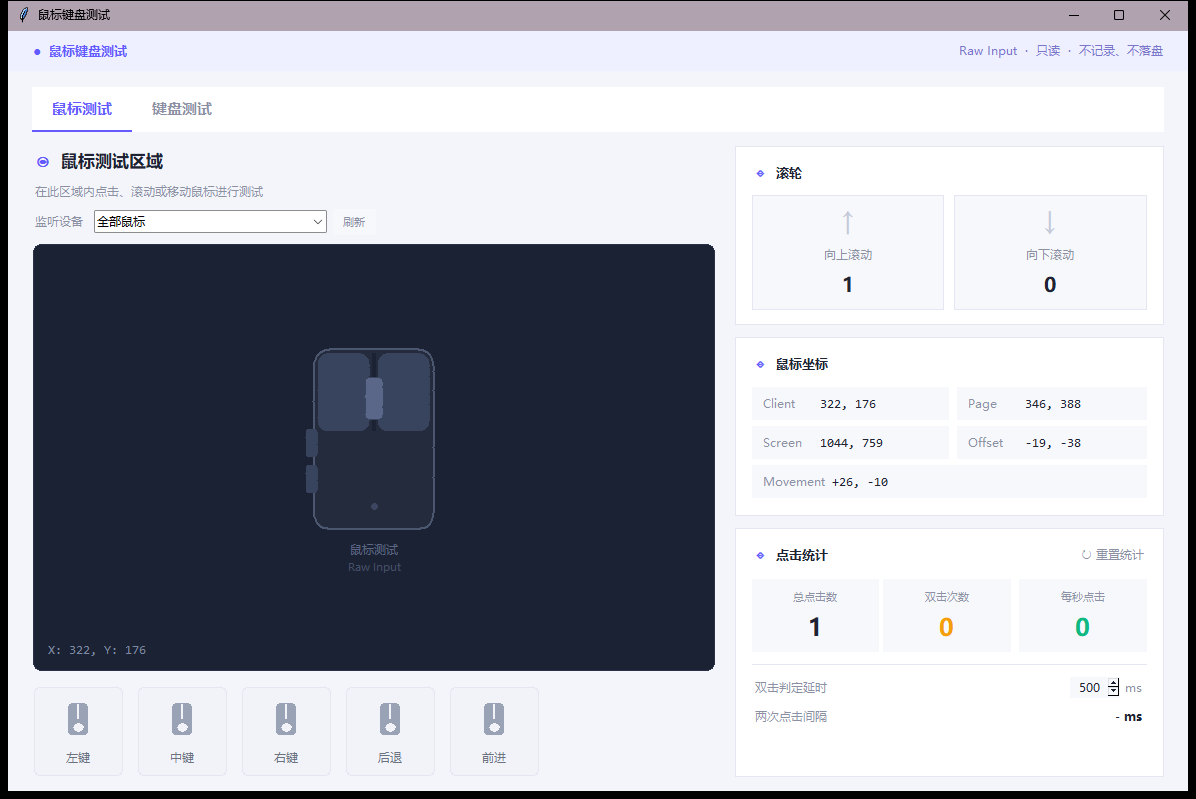
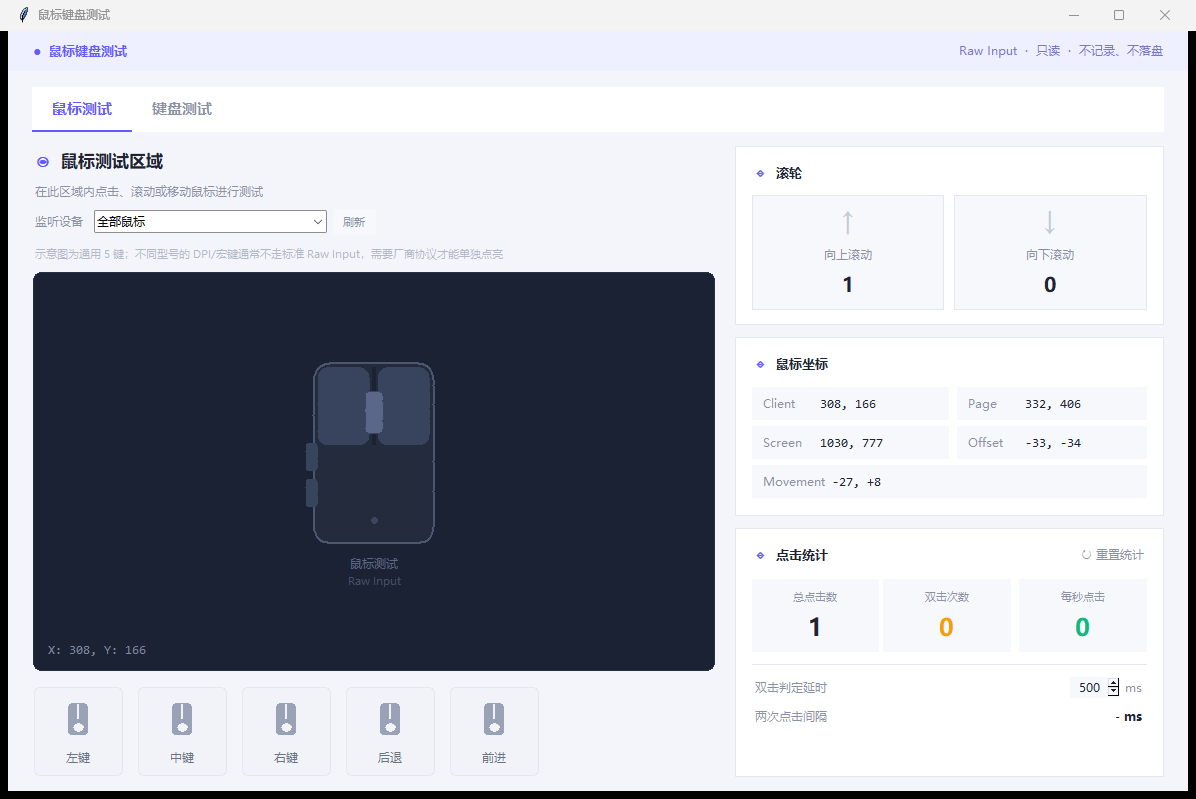
键盘测试改为104键全配列示意图，增加按键高亮/锁定/rollover/重置

diff --git a/mouse_test_gui.py b/mouse_test_gui.py
@@ -19,6 +19,7 @@ from collections import deque
 from tkinter import messagebox, ttk
 
 import mouse_events as me
+from keyboard_view import KeyboardView
 
 BG = "#f4f5fa"
 CARD = "#ffffff"
@@ -94,6 +95,9 @@ class MouseTestApp(tk.Tk):
         self.wheel_up = 0
         self.wheel_down = 0
         self.key_count = 0
+        self.max_rollover = 0
+        self.active_keys: set[int] = set()
+        self.locks: set[int] = set()
         self.last_move = (0, 0)
         self.last_screen = (0, 0)
         self.demo_step = 0
@@ -244,6 +248,10 @@ class MouseTestApp(tk.Tk):
         tk.Label(left, text="在此区域内点击、滚动或移动鼠标进行测试",
                  bg=BG, fg=MUTED, font=(UI, 9)).pack(anchor="w", pady=(4, 6))
         self._selector(left, "mouse")
+        tk.Label(left, text="示意图为通用 5 键；不同型号的 DPI/宏键通常不走标准 Raw Input，"
+                            "需要厂商协议才能单独点亮",
+                 bg=BG, fg=FAINT, font=(UI, 8), anchor="w",
+                 wraplength=700, justify="left").pack(fill="x", pady=(0, 6))
 
         self.pad = tk.Canvas(left, bg=BG, highlightthickness=0, height=360)
         self.pad.pack(fill="both", expand=True)
@@ -483,40 +491,57 @@ class MouseTestApp(tk.Tk):
         card.pack(fill="both", expand=True, padx=24, pady=14)
 
         head = tk.Frame(card, bg=CARD)
-        head.pack(fill="x", padx=24, pady=(20, 0))
+        head.pack(fill="x", padx=24, pady=(16, 0))
         tk.Label(head, text="⌨", bg=CARD, fg=ACCENT,
                  font=(UI, 14)).pack(side="left")
         tk.Label(head, text=" 键盘测试区域", bg=CARD, fg=TEXT,
                  font=(UI, 13, "bold")).pack(side="left")
+        tk.Label(head, text="全配列 104 键 · 按下亮起 · 松开熄灭",
+                 bg=CARD, fg=MUTED, font=(UI, 8)).pack(side="right")
         tk.Label(card, text="按键盘上的任意键进行测试（键值只显示，不记录、不落盘）",
                  bg=CARD, fg=MUTED, font=(UI, 9)).pack(anchor="w", padx=24, pady=(4, 0))
         self._selector(card, "keyboard")
 
         body = tk.Frame(card, bg=CARD)
-        body.pack(fill="both", expand=True, padx=24, pady=18)
+        body.pack(fill="both", expand=True, padx=24, pady=(8, 16))
         body.grid_columnconfigure(0, weight=3)
-        body.grid_columnconfigure(1, weight=2)
+        body.grid_columnconfigure(1, weight=1)
         body.grid_rowconfigure(0, weight=1)
 
         left = tk.Frame(body, bg=CHIP, highlightbackground=BORDER,
                         highlightthickness=1)
         left.grid(row=0, column=0, sticky="nsew", padx=(0, 12))
-        self.key_big = tk.Label(left, text="—", bg=CHIP, fg=TEXT,
-                                font=(UI, 44, "bold"))
-        self.key_big.pack(expand=True)
-        self.key_meta = tk.Label(left, text="等待按键…", bg=CHIP, fg=MUTED,
-                                 font=(MONO, 10))
-        self.key_meta.pack(pady=(0, 24))
+        self.kb_view = KeyboardView(left)
+        self.kb_view.pack(fill="both", expand=True, padx=8, pady=(8, 4))
+
+        status = tk.Frame(left, bg=CHIP)
+        status.pack(fill="x", padx=10, pady=(0, 8))
+        self.key_big = tk.Label(status, text="—", bg=CHIP, fg=TEXT,
+                                font=(UI, 15, "bold"), width=12, anchor="w")
+        self.key_big.pack(side="left")
+        self.key_meta = tk.Label(status, text="等待按键…", bg=CHIP, fg=MUTED,
+                                 font=(MONO, 9), anchor="w")
+        self.key_meta.pack(side="left", padx=(8, 0))
+        tk.Button(status, text="重置", command=self._reset_keyboard,
+                  bg=CARD, fg=MUTED, relief="flat", bd=0,
+                  font=(UI, 8), padx=8, pady=2,
+                  cursor="hand2").pack(side="right")
 
         right = tk.Frame(body, bg=CARD)
         right.grid(row=0, column=1, sticky="nsew")
         self.key_count_label = tk.Label(right, text="按键次数  0", bg=CARD,
                                         fg=TEXT, font=(UI, 11, "bold"))
         self.key_count_label.pack(anchor="w")
+        self.rollover_label = tk.Label(right, text="同时按下  0  ·  最大 0",
+                                       bg=CARD, fg=MUTED, font=(UI, 9))
+        self.rollover_label.pack(anchor="w", pady=(4, 0))
+        self.lock_label = tk.Label(right, text="Caps —   Num —   Scroll —",
+                                   bg=CARD, fg=MUTED, font=(UI, 9))
+        self.lock_label.pack(anchor="w", pady=(2, 8))
         tk.Label(right, text="最近按键", bg=CARD, fg=MUTED,
-                 font=(UI, 9)).pack(anchor="w", pady=(14, 4))
+                 font=(UI, 9)).pack(anchor="w", pady=(4, 4))
         self.key_list = tk.Listbox(
-            right, font=(MONO, 10), relief="flat", bg=CHIP, fg=TEXT,
+            right, font=(MONO, 9), relief="flat", bg=CHIP, fg=TEXT,
             selectbackground=CHIP, selectforeground=TEXT,
             highlightthickness=1, highlightbackground=BORDER, height=12)
         self.key_list.pack(fill="both", expand=True)
@@ -714,17 +739,55 @@ class MouseTestApp(tk.Tk):
 
     # ------------------------------------------------------------- keyboard
     def _on_key(self, ev):
-        if ev.get("action") != "down":
-            return
-        self.key_count += 1
+        vk = int(ev.get("vk", 0) or 0)
         name = ev.get("name", "?")
-        self.key_big.configure(text=name)
-        self.key_meta.configure(
-            text=f"VK 0x{ev.get('vk', 0):02X}   scan 0x{ev.get('scan', 0):02X}")
+        down = ev.get("action") == "down"
+        if down:
+            self.kb_view.set_key(vk, True)
+            if vk not in self.active_keys:
+                self.active_keys.add(vk)
+                self.key_count += 1
+                self.max_rollover = max(self.max_rollover,
+                                        len(self.active_keys))
+                self.key_list.insert(
+                    0, f"{name:<12} VK 0x{vk:02X}")
+                if self.key_list.size() > 12:
+                    self.key_list.delete(12, tk.END)
+                if vk in (0x14, 0x90, 0x91):      # Caps / Num / Scroll
+                    if vk in self.locks:
+                        self.locks.discard(vk)
+                    else:
+                        self.locks.add(vk)
+                    self.kb_view.set_lock(vk, vk in self.locks)
+            self.key_big.configure(text=name)
+            self.key_meta.configure(
+                text=f"VK 0x{vk:02X}   scan 0x{ev.get('scan', 0):02X}")
+        else:
+            self.active_keys.discard(vk)
+            self.kb_view.set_key(vk, False)
+        self._update_keyboard_stats()
+
+    def _update_keyboard_stats(self):
         self.key_count_label.configure(text=f"按键次数  {self.key_count}")
-        self.key_list.insert(0, f"{name:<12} VK 0x{ev.get('vk', 0):02X}")
-        if self.key_list.size() > 12:
-            self.key_list.delete(12, tk.END)
+        self.rollover_label.configure(
+            text=f"同时按下  {len(self.active_keys)}  ·  "
+                 f"最大 {self.max_rollover}")
+        names = {"Caps": 0x14, "Num": 0x90, "Scroll": 0x91}
+        self.lock_label.configure(
+            text="   ".join(
+                f"{label} {'ON' if vk in self.locks else '—'}"
+                for label, vk in names.items()))
+
+    def _reset_keyboard(self):
+        self.active_keys.clear()
+        self.locks.clear()
+        self.key_count = 0
+        self.max_rollover = 0
+        self.kb_view.reset()
+        self.key_big.configure(text="—")
+        self.key_meta.configure(text="等待按键…")
+        self.key_list.delete(0, tk.END)
+        self._update_keyboard_stats()
 
     # ----------------------------------------------------------------- demo
     def _demo_tick(self):

diff --git a/keyboard_view.py b/keyboard_view.py
@@ -1,0 +1,167 @@
+# -*- coding: utf-8 -*-
+"""keyboard_view.py —— 104 键全配列键盘示意图。
+
+只做显示和按键高亮，不读取/记录键盘内容；Raw Input 事件由 mouse_events 提供。
+"""
+from __future__ import annotations
+
+import tkinter as tk
+
+BG = "#f7f8fc"
+KEY = "#ffffff"
+KEY_EDGE = "#d9deec"
+KEY_TEXT = "#353b52"
+ACCENT = "#635bff"
+ACCENT_DARK = "#4f46e5"
+ACCENT_SOFT = "#e7e5ff"
+MUTED = "#8b90a3"
+
+UI = "Microsoft YaHei UI"
+
+# (label, vk, x, y, w, h) —— x/y 以键位单位计，104 键 ANSI
+KEYS = [
+    # 功能行
+    ("Esc", 0x1B, 0, 0, 1, 1),
+    ("F1", 0x70, 2, 0, 1, 1), ("F2", 0x71, 3, 0, 1, 1),
+    ("F3", 0x72, 4, 0, 1, 1), ("F4", 0x73, 5, 0, 1, 1),
+    ("F5", 0x74, 6.25, 0, 1, 1), ("F6", 0x75, 7.25, 0, 1, 1),
+    ("F7", 0x76, 8.25, 0, 1, 1), ("F8", 0x77, 9.25, 0, 1, 1),
+    ("F9", 0x78, 10.5, 0, 1, 1), ("F10", 0x79, 11.5, 0, 1, 1),
+    ("F11", 0x7A, 12.5, 0, 1, 1), ("F12", 0x7B, 13.5, 0, 1, 1),
+    ("PrtSc", 0x2C, 15.5, 0, 1, 1), ("ScrLk", 0x91, 16.5, 0, 1, 1),
+    ("Pause", 0x13, 17.5, 0, 1, 1),
+
+    # 数字行 + 导航 + 小键盘上排
+    ("`", 0xC0, 0, 1, 1, 1),
+    ("1", 0x31, 1, 1, 1, 1), ("2", 0x32, 2, 1, 1, 1),
+    ("3", 0x33, 3, 1, 1, 1), ("4", 0x34, 4, 1, 1, 1),
+    ("5", 0x35, 5, 1, 1, 1), ("6", 0x36, 6, 1, 1, 1),
+    ("7", 0x37, 7, 1, 1, 1), ("8", 0x38, 8, 1, 1, 1),
+    ("9", 0x39, 9, 1, 1, 1), ("0", 0x30, 10, 1, 1, 1),
+    ("-", 0xBD, 11, 1, 1, 1), ("=", 0xBB, 12, 1, 1, 1),
+    ("Bksp", 0x08, 13, 1, 2, 1),
+    ("Ins", 0x2D, 15.5, 1, 1, 1), ("Home", 0x24, 16.5, 1, 1, 1),
+    ("PgUp", 0x21, 17.5, 1, 1, 1),
+    ("Num", 0x90, 19.5, 1, 1, 1), ("/", 0x6F, 20.5, 1, 1, 1),
+    ("*", 0x6A, 21.5, 1, 1, 1), ("-", 0x6D, 22.5, 1, 1, 1),
+
+    # Q 行 + 导航 + 小键盘 7/8/9/+
+    ("Tab", 0x09, 0, 2, 1.5, 1),
+    ("Q", 0x51, 1.5, 2, 1, 1), ("W", 0x57, 2.5, 2, 1, 1),
+    ("E", 0x45, 3.5, 2, 1, 1), ("R", 0x52, 4.5, 2, 1, 1),
+    ("T", 0x54, 5.5, 2, 1, 1), ("Y", 0x59, 6.5, 2, 1, 1),
+    ("U", 0x55, 7.5, 2, 1, 1), ("I", 0x49, 8.5, 2, 1, 1),
+    ("O", 0x4F, 9.5, 2, 1, 1), ("P", 0x50, 10.5, 2, 1, 1),
+    ("[", 0xDB, 11.5, 2, 1, 1), ("]", 0xDD, 12.5, 2, 1, 1),
+    ("\\", 0xDC, 13.5, 2, 1.5, 1),
+    ("Del", 0x2E, 15.5, 2, 1, 1), ("End", 0x23, 16.5, 2, 1, 1),
+    ("PgDn", 0x22, 17.5, 2, 1, 1),
+    ("7", 0x67, 19.5, 2, 1, 1), ("8", 0x68, 20.5, 2, 1, 1),
+    ("9", 0x69, 21.5, 2, 1, 1), ("+", 0x6B, 22.5, 2, 1, 2),
+
+    # A 行 + 小键盘 4/5/6
+    ("Caps", 0x14, 0, 3, 1.75, 1),
+    ("A", 0x41, 1.75, 3, 1, 1), ("S", 0x53, 2.75, 3, 1, 1),
+    ("D", 0x44, 3.75, 3, 1, 1), ("F", 0x46, 4.75, 3, 1, 1),
+    ("G", 0x47, 5.75, 3, 1, 1), ("H", 0x48, 6.75, 3, 1, 1),
+    ("J", 0x4A, 7.75, 3, 1, 1), ("K", 0x4B, 8.75, 3, 1, 1),
+    ("L", 0x4C, 9.75, 3, 1, 1),
+    (";", 0xBA, 10.75, 3, 1, 1), ("'", 0xDE, 11.75, 3, 1, 1),
+    ("Enter", 0x0D, 12.75, 3, 2.25, 1),
+    ("4", 0x64, 19.5, 3, 1, 1), ("5", 0x65, 20.5, 3, 1, 1),
+    ("6", 0x66, 21.5, 3, 1, 1),
+
+    # Z 行 + 方向 + 小键盘 1/2/3/Enter
+    ("Shift", 0x10, 0, 4, 2.25, 1),
+    ("Z", 0x5A, 2.25, 4, 1, 1), ("X", 0x58, 3.25, 4, 1, 1),
+    ("C", 0x43, 4.25, 4, 1, 1), ("V", 0x56, 5.25, 4, 1, 1),
+    ("B", 0x42, 6.25, 4, 1, 1), ("N", 0x4E, 7.25, 4, 1, 1),
+    ("M", 0x4D, 8.25, 4, 1, 1),
+    (",", 0xBC, 9.25, 4, 1, 1), (".", 0xBE, 10.25, 4, 1, 1),
+    ("/", 0xBF, 11.25, 4, 1, 1),
+    ("Shift", 0x10, 12.25, 4, 2.75, 1),
+    ("Up", 0x26, 16.5, 4, 1, 1),
+    ("1", 0x61, 19.5, 4, 1, 1), ("2", 0x62, 20.5, 4, 1, 1),
+    ("3", 0x63, 21.5, 4, 1, 1), ("Enter", 0x0D, 22.5, 4, 1, 2),
+
+    # 底行 + 方向 + 小键盘 0/.
+    ("Ctrl", 0x11, 0, 5, 1.25, 1), ("Win", 0x5B, 1.25, 5, 1.25, 1),
+    ("Alt", 0x12, 2.5, 5, 1.25, 1), ("Space", 0x20, 3.75, 5, 6.25, 1),
+    ("Alt", 0x12, 10, 5, 1.25, 1), ("Win", 0x5B, 11.25, 5, 1.25, 1),
+    ("Menu", 0x5D, 12.5, 5, 1.25, 1), ("Ctrl", 0x11, 13.75, 5, 1.25, 1),
+    ("Left", 0x25, 15.5, 5, 1, 1), ("Down", 0x28, 16.5, 5, 1, 1),
+    ("Right", 0x27, 17.5, 5, 1, 1),
+    ("0", 0x60, 19.5, 5, 2, 1), (".", 0x6E, 21.5, 5, 1, 1),
+]
+
+
+class KeyboardView(tk.Canvas):
+    """104 键全配列示意图；按 VK 高亮，锁定键保留底色。"""
+
+    def __init__(self, parent, **kwargs):
+        super().__init__(parent, bg=BG, highlightthickness=0, **kwargs)
+        self._items: dict[int, list[int]] = {}
+        self._pressed: set[int] = set()
+        self._locks: set[int] = set()
+        self._unit = 26
+        self.bind("<Configure>", lambda _e: self.redraw())
+
+    def set_key(self, vk: int, pressed: bool) -> None:
+        if pressed:
+            self._pressed.add(vk)
+        else:
+            self._pressed.discard(vk)
+        self._paint(vk)
+
+    def set_lock(self, vk: int, locked: bool) -> None:
+        if locked:
+            self._locks.add(vk)
+        else:
+            self._locks.discard(vk)
+        self._paint(vk)
+
+    def reset(self) -> None:
+        self._pressed.clear()
+        self._locks.clear()
+        for vk in self._items:
+            self._paint(vk)
+
+    def redraw(self) -> None:
+        self.delete("all")
+        self._items.clear()
+        w = max(self.winfo_width(), 640)
+        h = max(self.winfo_height(), 240)
+        unit = min((w - 22) / 23.5, (h - 18) / 6.0)
+        self._unit = unit
+        ox = max(6, (w - 23.5 * unit) / 2)
+        oy = max(6, (h - 6.0 * unit) / 2)
+        gap = max(1, unit * 0.07)
+        font = (UI, max(6, int(unit * 0.23)))
+        for label, vk, x, y, kw, kh in KEYS:
+            x1 = ox + x * unit + gap / 2
+            y1 = oy + y * unit + gap / 2
+            x2 = ox + (x + kw) * unit - gap / 2
+            y2 = oy + (y + kh) * unit - gap / 2
+            rect = self.create_rectangle(x1, y1, x2, y2, fill=KEY,
+                                         outline=KEY_EDGE, width=1)
+            text = self.create_text((x1 + x2) / 2, (y1 + y2) / 2,
+                                    text=label, fill=KEY_TEXT, font=font)
+            self._items.setdefault(vk, []).extend([rect, text])
+        for vk in set(self._items):
+            self._paint(vk)
+
+    def _paint(self, vk: int) -> None:
+        items = self._items.get(vk)
+        if not items:
+            return
+        if vk in self._pressed:
+            fill, outline, fg = ACCENT, ACCENT_DARK, "#ffffff"
+        elif vk in self._locks:
+            fill, outline, fg = ACCENT_SOFT, ACCENT, ACCENT_DARK
+        else:
+            fill, outline, fg = KEY, KEY_EDGE, KEY_TEXT
+        for i, item in enumerate(items):
+            if i % 2 == 0:
+                self.itemconfigure(item, fill=fill, outline=outline)
+            else:
+                self.itemconfigure(item, fill=fg)

diff --git a/tests/test_keyboard_view.py b/tests/test_keyboard_view.py
@@ -1,0 +1,29 @@
+# -*- coding: utf-8 -*-
+"""键盘全配列布局的纯数据测试。"""
+import unittest
+
+import keyboard_view as kv
+
+
+class KeyboardLayoutTest(unittest.TestCase):
+    def test_key_count(self):
+        self.assertEqual(len(kv.KEYS), 104)
+
+    def test_bounds(self):
+        for label, vk, x, y, w, h in kv.KEYS:
+            self.assertLessEqual(x + w, 23.5, label)
+            self.assertLessEqual(y + h, 6.0, label)
+            self.assertGreaterEqual(x, 0)
+            self.assertGreaterEqual(y, 0)
+
+    def test_core_keys(self):
+        labels = {k[0] for k in kv.KEYS}
+        vks = {k[1] for k in kv.KEYS}
+        for label in ("Esc", "F12", "Space", "Enter", "Num", "PgUp", "Right"):
+            self.assertIn(label, labels)
+        for vk in (0x1B, 0x41, 0x5A, 0x20, 0x0D, 0x90, 0x60):
+            self.assertIn(vk, vks)
+
+
+if __name__ == "__main__":
+    unittest.main()

diff --git a/README.md b/README.md
@@ -131,9 +131,15 @@ python mouse_test_gui.py --demo
 - 系统里同类设备 **大于 1 台** 时出现下拉框，可切换「全部」或指定设备；
   点「刷新」重新枚举
 - 切换设备会重启 Raw Input 监听并清空旧事件
-- 鼠标：五个按键、滚轮、坐标、点击统计、双击判定
-- 键盘：按键名、VK、扫描码、最近按键
+- 鼠标：通用 5 键示意图、滚轮、坐标、点击统计、双击判定
+  - 示意图目前不按型号自动变形；不同型号的 DPI/宏键通常不走标准 Raw Input，
+    需要厂商协议才能单独识别，因此不伪造额外按键
+- 键盘：**104 键全配列**（含功能行、导航区、数字小键盘）
+  - 按下亮起、松开熄灭；支持同时按下/最大 rollover、Caps/Num/Scroll 锁定
+  - 显示按键名、VK、扫描码、最近按键、按键次数，可一键重置
 - 只显示，不记录、不落盘
+
+![键盘全配列测试](docs/keyboard_test.png)
 
 ## HID 调试台
 
@@ -217,13 +223,14 @@ python tray_app.py --quit
 python -m unittest discover -s tests -v
 ```
 
-共 34 个用例：
+共 37 个用例：
 
 - 8 个鼠标协议/电压曲线
 - 5 个 Raw Input 事件解析
 - 4 个 PMO 键盘
 - 12 个多厂商协议帧/校验/解析
 - 5 个设备目录/快照字段
+- 3 个 104 键布局数据
 
 ## 验收自检（本机实测）
 
